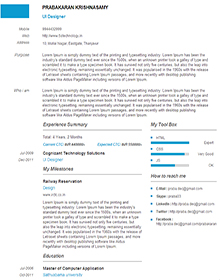
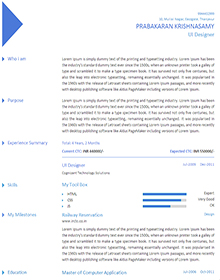
css added

diff --git a/assets/css/sss_resume.css b/assets/css/sss_resume.css
@@ -45,6 +45,15 @@
 }
 .left_form_title p{ margin: 20px 20px 0 20px; line-height: 25px;}
 
+.thumb_sdw_tmp{width: 85px;
+height: 100px;
+margin: 10px;
+box-shadow: 4px 8px 12px -6px #626262;
+border: 1px solid #E7E3E3;
+float: right;}
+
+
+
 /******************************** Right nav***********************************/
 
 .right_nav{ 

diff --git a/application/views/resume.php b/application/views/resume.php
@@ -10,7 +10,7 @@
 	<h3> YOU ARE HERE </h3>
 	<span class="rns showSelectTemplate"><span class="rnd">1</span>Choose Resume Style</span>
 	<span class="rns"><span class="rnd">2</span>Discover Yourself</span>
-	<span tab='#about_tab' class="tab rns rns_a rns_inner">About</span>
+	<span tab='#about_tab' class="tab rns rns_a rns_inner">About Me</span>
 	<span tab='#objective_tab' class="tab rns rns_inner">Designation,Objective</span>
 	<span tab='#contact_tab' class="tab rns rns_inner">Contact Me</span>
 	<span tab='#experience_tab' class="tab rns rns_inner">Experience Summary</span>
@@ -47,12 +47,12 @@
 				<h3>About Me</h3>
 				<? if($templateValue)
 				{?>
-				<img style="width:75px; height:100px" id="t_thumb" alt="Template thumbnail" src="<?=base_url('assets/img').'/'.$templateValue.'_thumb.jpg';?>">
-				<?}
+				<img class="thumb_sdw_tmp"  id="t_thumb" alt="Template thumbnail" src="<?=base_url('assets/img').'/'.$templateValue.'_thumb.jpg';?>">
+				<? }
 				else
-				{?>
-				<img style="width:75px; height:100px" id="t_thumb" alt="Template thumbnail" src="<?=base_url('assets/img').'/T_thumb.jpg';?>">
-				<?}?>
+				{ ?>
+				<img class="thumb_sdw_tmp"  id="t_thumb" alt="Template thumbnail" src="<?=base_url('assets/img').'/T_thumb.jpg';?>">
+				<? } ?>
 				<span class="showSelectTemplate">Change Template</span>
 				<div class="clearboth"></div>
 				<p> Tell us about yourself in this section. You can enter your name and current location as well as talk about yourself and what you have been doing till date.</p>
@@ -139,8 +139,16 @@
 		<!-- =========================================================== Designation,Objective tab start ==================-->
 		<div id="objective_tab" class="tabs">
 			<div class="left_form_title">
-				<h3>DESIGNATION, OBJECTIVE</h3>
-				<span class="showSelectTemplate">Resume Templates</span>
+				<h3>DESIGNATION, OBJECTIVE</h3>				
+				<? if($templateValue)
+				{?>
+				<img class="thumb_sdw_tmp"  id="t_thumb" alt="Template thumbnail" src="<?=base_url('assets/img').'/'.$templateValue.'_thumb.jpg';?>">
+				<? }
+				else
+				{ ?>
+				<img class="thumb_sdw_tmp"  id="t_thumb" alt="Template thumbnail" src="<?=base_url('assets/img').'/T_thumb.jpg';?>">
+				<? } ?>
+				<span class="showSelectTemplate">Change Template</span>
 				<div class="clearboth"></div>
 				<p>This section will cover your current designation in case you are already working. If you are a student, you can skip this section. Alternatively, as a student you can talk about the role you desire to play in the path you take towards building your career. </p>
 			</div>
@@ -208,7 +216,7 @@
 		<div id="contact_tab"  class="tabs">
 			<div class="left_form_title">
 				<h3>Contact Me</h3>
-				<span class="showSelectTemplate">Resume Templates</span>
+				<span class="showSelectTemplate">Change Template</span>
 				<div class="clearboth"></div>
 				<p> In this section you can reveal your contact details and decide exactly how you would like your employers to contact you. Our recommendation is that you definitley give them your phone number and Email Id. </p>
 			</div>
@@ -268,7 +276,7 @@
 		<div id="experience_tab" class="tabs">
 			<div class="left_form_title">
 				<h3>EXPERIENCE SUMMARY</h3>
-				<span  class="showSelectTemplate">Resume Templates</span>
+				<span  class="showSelectTemplate">Change Template</span>
 				<div class="clearboth"></div>
 				<p> In this section you can give information on your past experience of working with different companies. This section helps you list out all the companies you have worked with, the duration of time you spent with them as well as the position you held during that time.  </p>
 			</div>
@@ -396,7 +404,7 @@
 		<div id="strength_tab" class="tabs">
 			<div class="left_form_title">
 				<h3>My Strengths</h3>
-				<span class="showSelectTemplate">Resume Templates</span>
+				<span class="showSelectTemplate">Change Template</span>
 				<div class="clearboth"></div>
 				<p> In this section you can elaborate on your strengths by first listing out the keywords and then by describing them briefly in a line if necessary. We recommend that you keep this section short and sweet.</p>
 			</div>
@@ -491,7 +499,7 @@
 		<div id="tool_tab" class="tabs">
 			<div class="left_form_title">
 				<h3>My Tool Box</h3>
-				<span class="showSelectTemplate">Resume Templates</span>
+				<span class="showSelectTemplate">Change Template</span>
 				<div class="clearboth"></div>
 				<p>Here's the place to add your skill sets, with a score on a scale to 10, 10 being the highest to indicate your profiiency in the skill. You can enter your skills sets here and assign a score to each.</p>
 			</div>
@@ -561,7 +569,7 @@
 		<div id="milestones_tab" class="tabs">
 			<div class="left_form_title">
 				<h3>My Milestones</h3>
-				<span class="showSelectTemplate">Resume Templates</span>
+				<span class="showSelectTemplate">Change Template</span>
 				<div class="clearboth"></div>
 				<p>In this section you can talk about those particular projects that made a difference to you, either in your learning curve, or that which earned you recognition or just a project you loved to work in.  </p>
 			</div>
@@ -632,7 +640,7 @@
 		<div id="edication_tab" class="tabs">
 			<div class="left_form_title">
 				<h3>My Education</h3>
-				<span class="showSelectTemplate">Resume Templates</span>
+				<span class="showSelectTemplate">Change Template</span>
 				<div class="clearboth"></div>
 				<p>In this section you can give all the details of your education across school, university and any other courses that you might have attended. </p>
 			</div>
@@ -772,7 +780,7 @@
 		<div id="moreabout_tab" class="tabs">
 			<div class="left_form_title">
 				<h3>More About Me</h3>
-				<span class="showSelectTemplate">Resume Templates</span>
+				<span class="showSelectTemplate">Change Template</span>
 				<div class="clearboth"></div>
 				<p>This the last section but it is as important. It describes your personality that is beyond work. This section gives you an avenue to talk about things you like to do and are interested to pursue </p>
 			</div>
@@ -946,7 +954,7 @@
 			</div>
 			<div class="t_list_bg" id="T2">
 				<div class="t_list_t">
-					<img src="<?php echo base_url("assets/img/T4_thumb.jpg"); ?>" alt="Template thumbnail"/>
+					<img src="<?php echo base_url("assets/img/T2_thumb.jpg"); ?>" alt="Template thumbnail"/>
 					<div class="t_list_s">
 						<p>Template 2</p>
 						<a class="t_select template" value="T2">Select</a>
@@ -964,7 +972,7 @@
 			</div>
 			<div class="t_list_bg" id="T4">
 				<div class="t_list_t">
-					<img src="<?php echo base_url("assets/img/T2_thumb.jpg"); ?>" alt="Template thumbnail"/>
+					<img src="<?php echo base_url("assets/img/T4_thumb.jpg"); ?>" alt="Template thumbnail"/>
 					<div class="t_list_s">
 						<p>Template 4</p>
 						<a class="t_select template" value="T4">Select</a>

diff --git a/application/views/templates.php b/application/views/templates.php
@@ -23,7 +23,7 @@
 		
 			<div class="t_list_bg">
 				<div class="t_list_t">
-					<img src="<?php echo base_url("assets/img/T4_thumb.jpg"); ?>" alt="Template thumbnail"/>
+					<img src="<?php echo base_url("assets/img/T2_thumb.jpg"); ?>" alt="Template thumbnail"/>
 					<div class="t_list_s">
 						<p>Template 2</p>
 						<a class="t_select" tvalue="T2">Select</a>
@@ -41,7 +41,7 @@
 		</div>
 			<div class="t_list_bg">
 			<div class="t_list_t">
-				<img src="<?php echo base_url("assets/img/T2_thumb.jpg"); ?>" alt="Template thumbnail"/>
+				<img src="<?php echo base_url("assets/img/T4_thumb.jpg"); ?>" alt="Template thumbnail"/>
 				<div class="t_list_s">
 					<p>Template 4</p>
 					<a class="t_select" tvalue="T4">Select</a>

diff --git a/application/views/download.php b/application/views/download.php
@@ -1,4 +1,9 @@
-<div class="row-fluid">
+<link rel="stylesheet" type="text/css" href="<?php echo base_url("assets/css/sss_resume.css"); ?>" />
+<div class="form_title">
+	<h3>Download</h3>
+</div>
+
+<div class="row-fluid left_form_feedback">
 	<div class="offset1 span2 ads final-ads">
 
 	</div>
